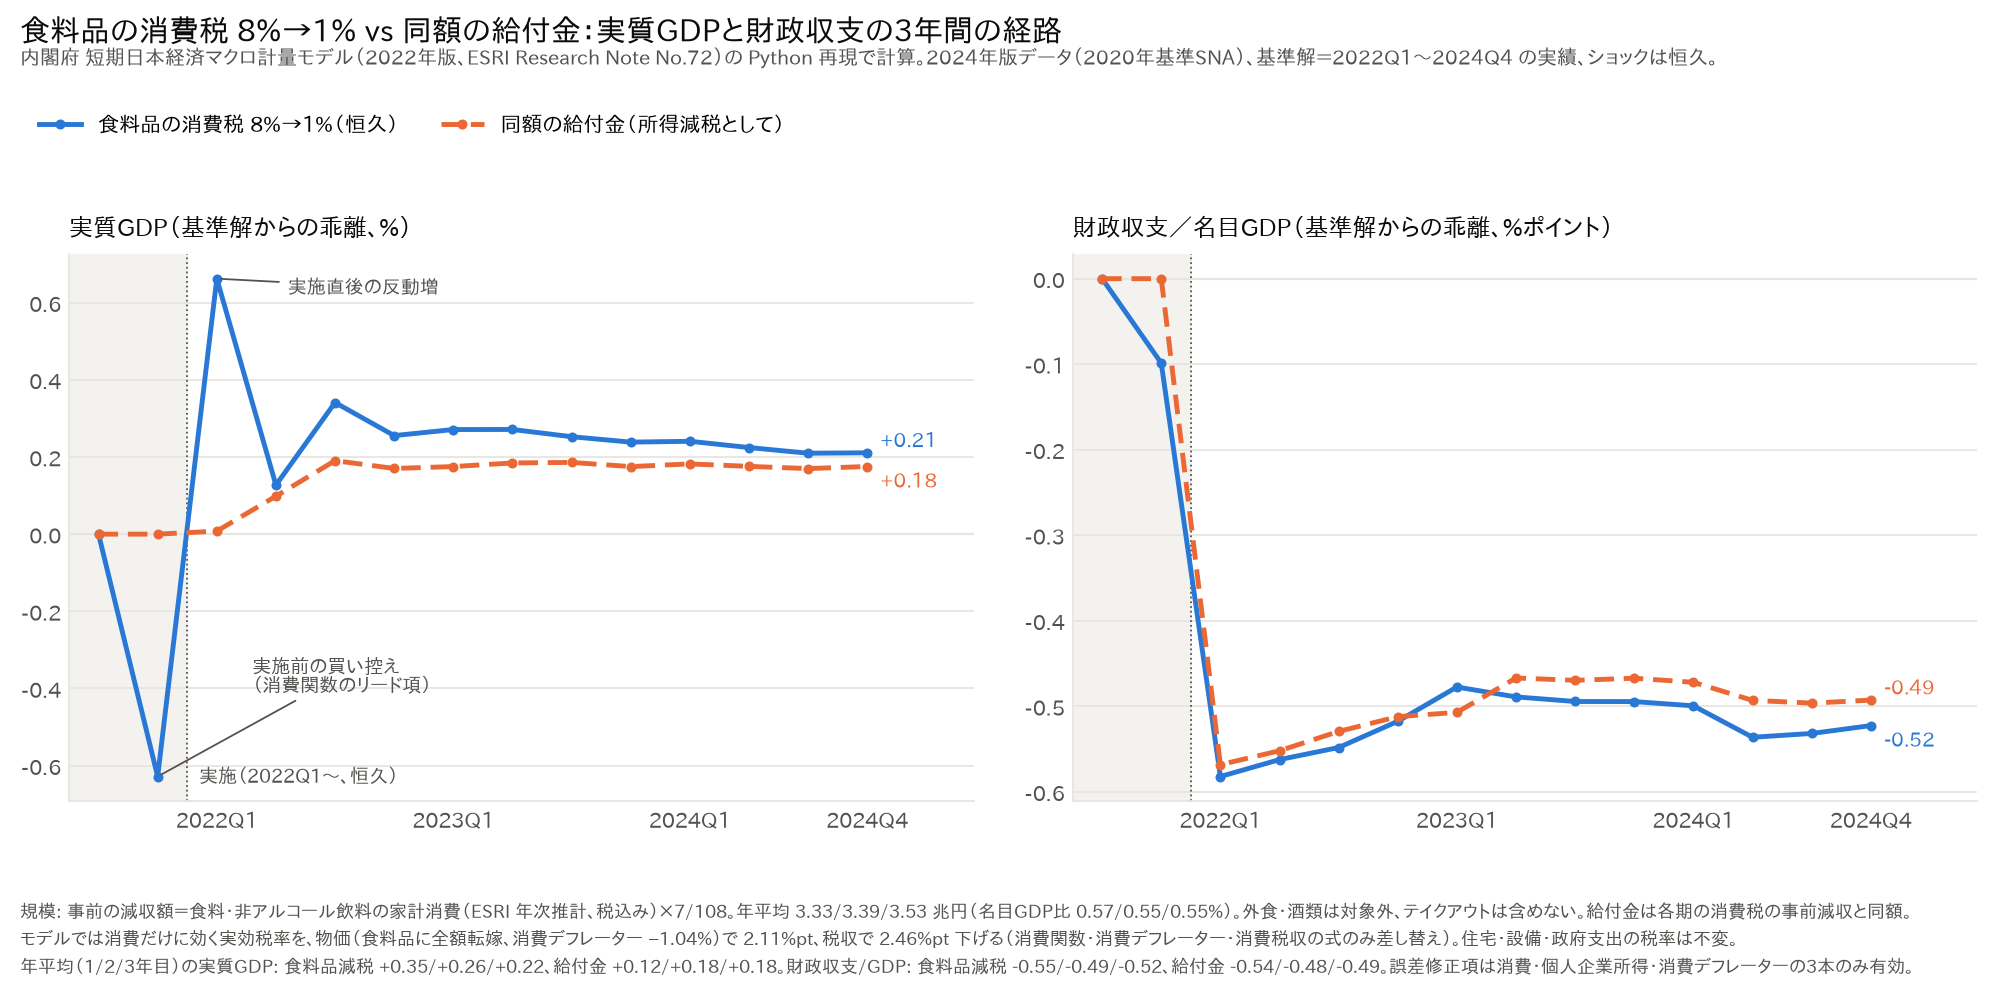
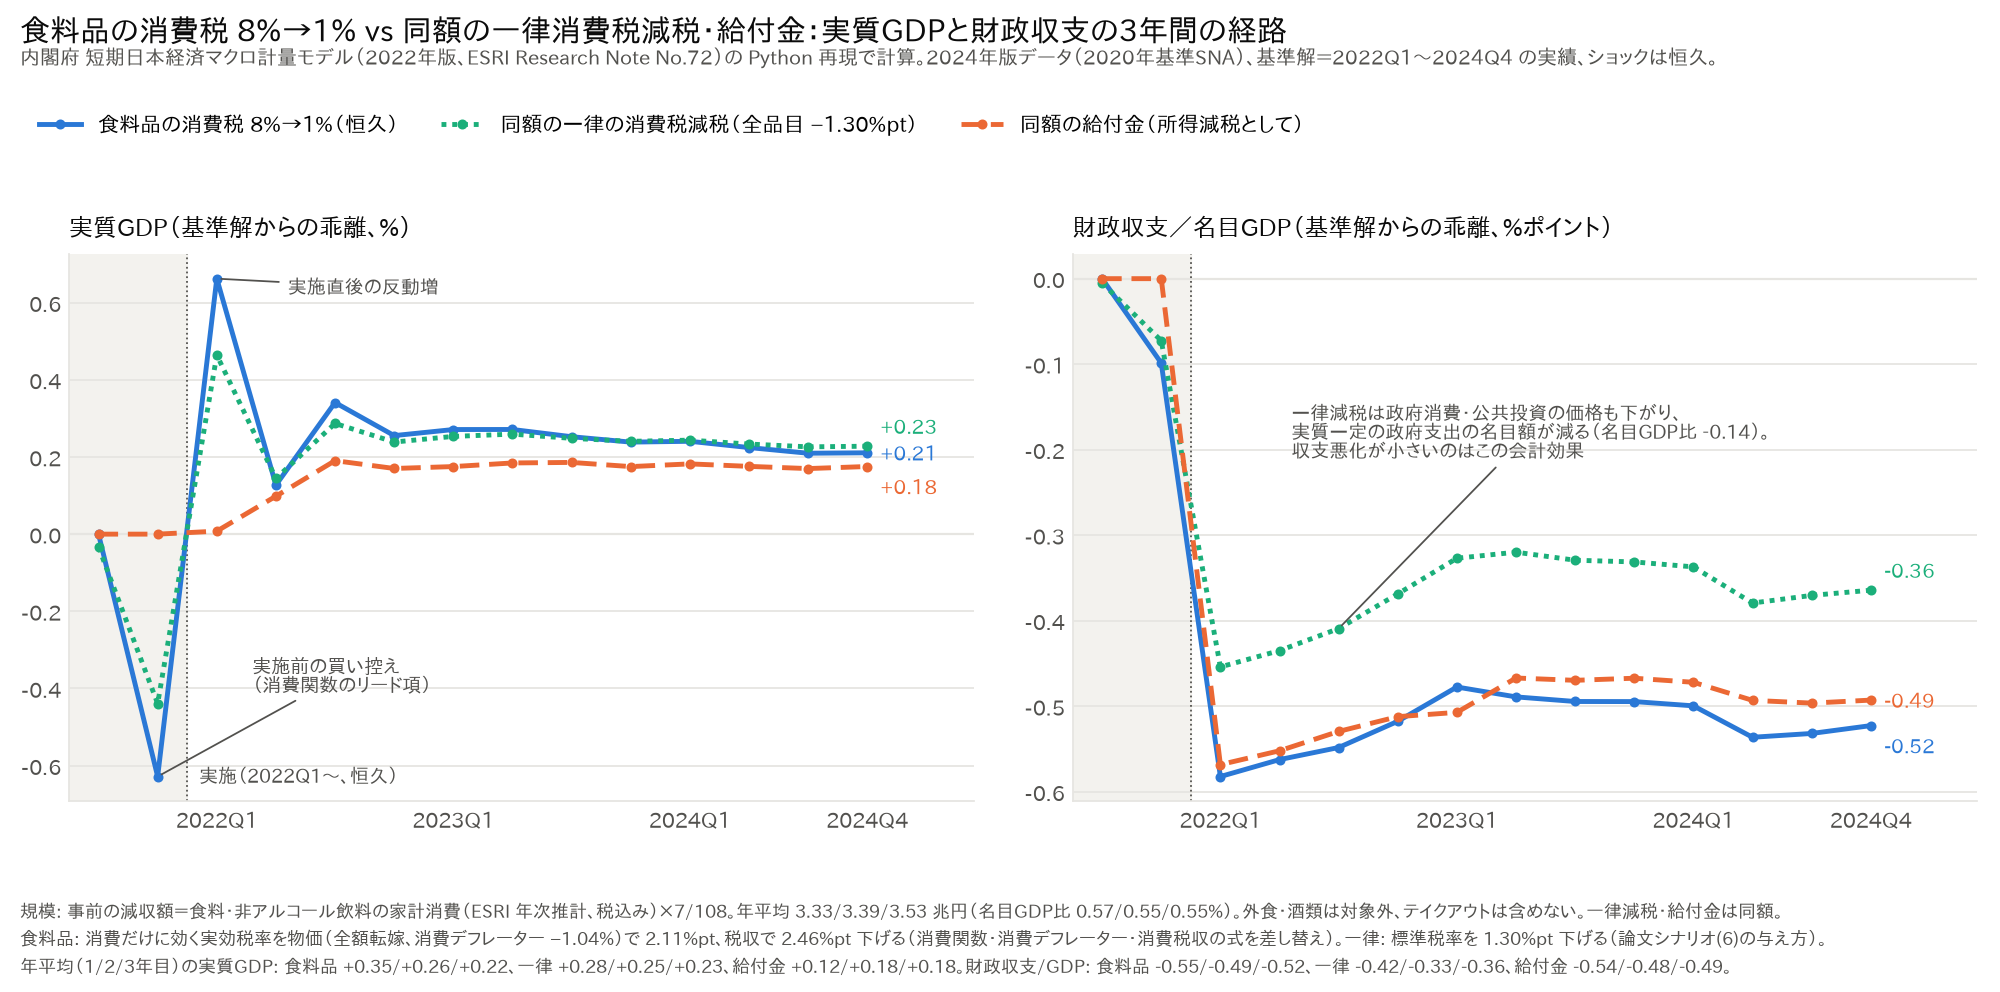
食料品の消費税減税シナリオの図に、同額の一律の消費税減税を追加
- 標準税率 RTCI を下げる論文シナリオ(6)の与え方で、事前の減収が食料品減税と同額になる引下げ幅
  （SNA基準 1.30%pt、4.4兆円 1.66%pt）を解き、3本目の線として描く
- 政府消費＋公的固定資本形成の名目額の変化（GOVV）を出力に追加し、一律減税の財政収支の悪化が
  小さい理由（実質一定の政府支出の名目額が減る会計効果）を図に注記
- README の表に一律減税の列を追加

Claude-Session: https://claude.ai/code/session_013ePjEtRrzquBdW4qa3Y9LD

diff --git a/README.md b/README.md
@@ -73,7 +73,7 @@ ESRI_VINTAGE=2024 python src/simulate.py                                # 論文
 | `src/ledger.py` | 変数台帳の作成と検査（論文付属資料IIの定義・単位・出所と、実際の系列・加工・単位換算・欠損処理の突き合わせ） |
 | `src/plot_multipliers.py` | 実質GDP乗数の四半期経路（論文 vs 再現、11シナリオ）の作図 |
 | `src/plot_tax_cut_vs_benefit.py` | 名目GDP1%規模の消費税減税 vs 給付金の実質GDP・財政収支/GDP の3年間経路（`output/tax_cut_vs_benefit.{csv,png}`） |
-| `src/plot_food_tax_cut_vs_benefit.py` | 食料品の消費税 8%→1% vs 同額の給付金（2024年版、2022〜24年基準）。減収額は ESRI 家計の目的別消費の食料・非アルコール飲料×7/108、消費だけに効く税率で消費関数・消費デフレーター・消費税収の式を差し替え（`output/food_tax_cut_vs_benefit.{csv,png}`） |
+| `src/plot_food_tax_cut_vs_benefit.py` | 食料品の消費税 8%→1% vs 同額の一律消費税減税・給付金（2024年版、2022〜24年基準）。減収額は ESRI 家計の目的別消費の食料・非アルコール飲料×7/108、消費だけに効く税率で消費関数・消費デフレーター・消費税収の式を差し替え（`output/food_tax_cut_vs_benefit.{csv,png}`） |
 | `src/sna.py` | SNA 四半期速報・年次推計の読み込み、季節調整（移動平均比率法） |
 | `src/fetch_*.py` | 論文・日銀・ESRI景気動向指数・OECD・FRED からの取得。`fetch_sna.py` は版の SNA ファイル、`fetch_estat.py` は e-Stat API（稼働率・貿易統計） |
 | `src/experiment_ecm*.py` | 誤差修正項の扱いを特定した検証実験（結果は `output/experiment_ecm*.csv`） |
@@ -209,22 +209,25 @@ ESRI_VINTAGE=2024 python src/simulate.py                                # 論文
 - 減収額: ESRI 2024年度年次推計「家計の目的別最終消費支出」の食料・非アルコール飲料（税込み）×7/108。年 3.3〜3.5兆円（名目GDPの約0.56%）。外食・酒類は対象外、テイクアウトは SNA で外食に入るため含めない。
 - モデルの消費税は標準税率1本なので、消費だけに効く実効税率を追加し、消費関数・消費デフレーター・消費税収の式だけを差し替える。物価は食料品に全額転嫁（消費デフレーター −1.04%）、税収は事前の減収額に合うよう、それぞれ別に合わせる。
 - 給付金は各四半期の事前の減収額と同額の個人所得税減税。
+- 一律の消費税減税は標準税率を下げる（論文シナリオ(6)と同じ与え方。住宅・設備・政府支出にも効く）。引下げ幅は事前の減収が食料品減税と同額になるよう決める（1.30%pt、4.4兆円では 1.66%pt）。
 
-| 年平均 | 実質GDP（%）食料品減税 / 給付金 | 財政収支/名目GDP（%pt）食料品減税 / 給付金 |
+| 年平均 | 実質GDP（%）食料品減税 / 一律減税 / 給付金 | 財政収支/名目GDP（%pt）食料品減税 / 一律減税 / 給付金 |
 |---|---|---|
-| 1年目（2022） | +0.35 / +0.12 | −0.55 / −0.54 |
-| 2年目（2023） | +0.26 / +0.18 | −0.49 / −0.48 |
-| 3年目（2024） | +0.22 / +0.18 | −0.52 / −0.49 |
+| 1年目（2022） | +0.35 / +0.28 / +0.12 | −0.55 / −0.42 / −0.54 |
+| 2年目（2023） | +0.26 / +0.25 / +0.18 | −0.49 / −0.33 / −0.48 |
+| 3年目（2024） | +0.22 / +0.23 / +0.18 | −0.52 / −0.36 / −0.49 |
 
 ![食料品の消費税 8%→1% vs 同額の給付金](output/food_tax_cut_vs_benefit.png)
 
 報道や試算で使われる減収 4.4兆円（食料品ゼロ税率の約5兆円×7/8。軽減税率の対象全体と2026年ごろの物価水準に相当）に合わせる場合は `--loss-tn 4.4`。この場合は、事前の減収の3年平均が4.4兆円（基準解の名目GDP比 約0.72%）になるよう税率の引下げ幅を決める。
 
-| 年平均（減収4.4兆円） | 実質GDP（%）食料品減税 / 給付金 | 財政収支/名目GDP（%pt）食料品減税 / 給付金 |
+| 年平均（減収4.4兆円） | 実質GDP（%）食料品減税 / 一律減税 / 給付金 | 財政収支/名目GDP（%pt）食料品減税 / 一律減税 / 給付金 |
 |---|---|---|
-| 1年目（2022） | +0.45 / +0.15 | −0.71 / −0.70 |
-| 2年目（2023） | +0.33 / +0.23 | −0.63 / −0.61 |
-| 3年目（2024） | +0.28 / +0.23 | −0.67 / −0.63 |
+| 1年目（2022） | +0.45 / +0.36 / +0.15 | −0.71 / −0.53 / −0.70 |
+| 2年目（2023） | +0.33 / +0.32 / +0.23 | −0.63 / −0.42 / −0.61 |
+| 3年目（2024） | +0.28 / +0.30 / +0.23 | −0.67 / −0.47 / −0.63 |
+
+一律減税の財政収支の悪化が小さいのは、政府消費・公共投資の価格も下がり、実質一定の政府支出の名目額が名目GDP比で約0.16〜0.19%pt 減る会計効果による（食料品減税・給付金ではほぼ0）。
 
 ![食料品の消費税 8%→1% vs 同額の給付金（減収4.4兆円）](output/food_tax_cut_vs_benefit_4.4tn.png)
 
